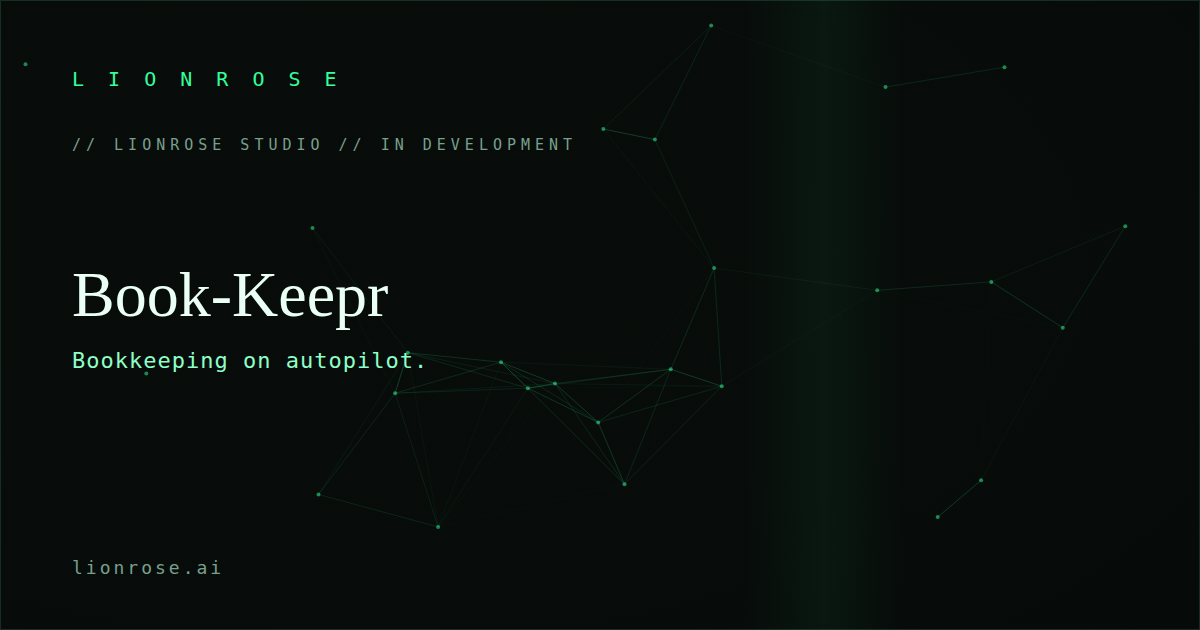
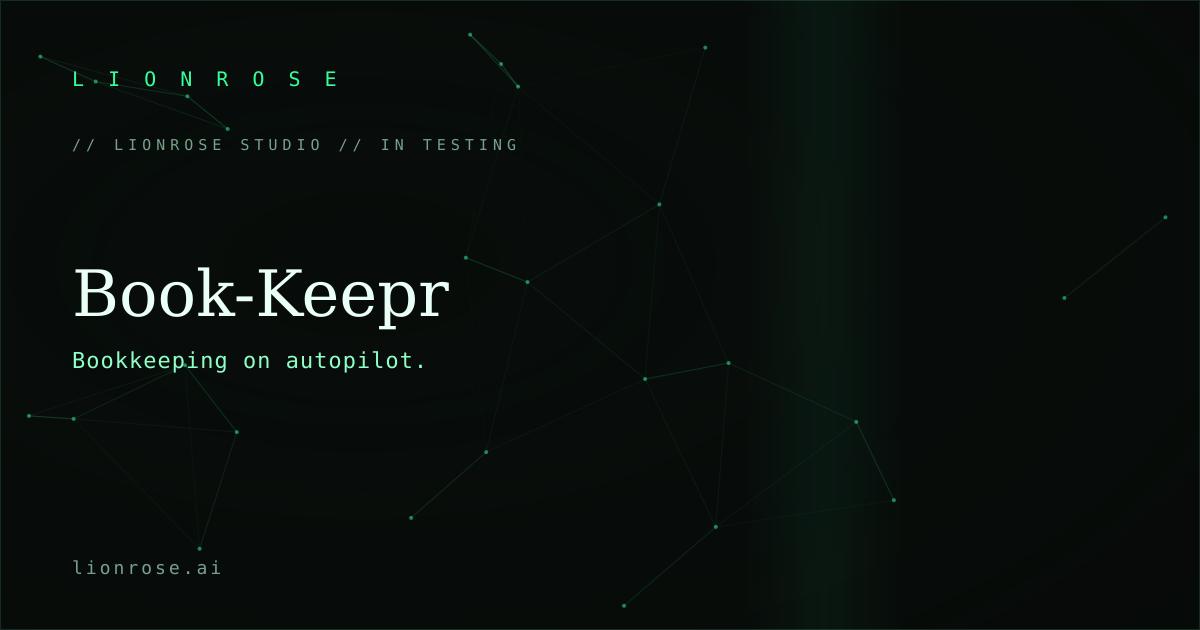
Predictor: generic prediction-engine copy; Book-Keepr: In Testing
Claude-Session: https://claude.ai/code/session_0111HABg2rW1iKnQVqs1y8Ya

diff --git a/p-predictor.html b/p-predictor.html
@@ -4,17 +4,17 @@
 <meta charset="UTF-8" />
 <meta name="viewport" content="width=device-width, initial-scale=1.0" />
 <title>Predictor | LionRose</title>
-<meta name="description" content="Predictor is a decision engine for sports prediction markets. It checks live prices against model odds, counts every fee, and sizes positions to survive losing streaks. In development at LionRose." />
+<meta name="description" content="Predictor is a prediction engine that weighs live prices against independent probability models and every cost, so each decision rests on a proven edge. In development at LionRose." />
 <link rel="canonical" href="https://lionrose.ai/p-predictor.html" />
 <meta property="og:type" content="website" />
 <meta property="og:site_name" content="LionRose" />
 <meta property="og:title" content="Predictor | LionRose" />
-<meta property="og:description" content="Predictor is a decision engine for sports prediction markets. It checks live prices against model odds, counts every fee, and sizes positions to survive losing streaks. In development at LionRose." />
+<meta property="og:description" content="Predictor is a prediction engine that weighs live prices against independent probability models and every cost, so each decision rests on a proven edge. In development at LionRose." />
 <meta property="og:url" content="https://lionrose.ai/p-predictor.html" />
 <meta property="og:image" content="https://lionrose.ai/products/og-predictor.png" />
 <meta name="twitter:card" content="summary_large_image" />
 <meta name="twitter:title" content="Predictor | LionRose" />
-<meta name="twitter:description" content="Predictor is a decision engine for sports prediction markets. It checks live prices against model odds, counts every fee, and sizes positions to survive losing streaks. In development at LionRose." />
+<meta name="twitter:description" content="Predictor is a prediction engine that weighs live prices against independent probability models and every cost, so each decision rests on a proven edge. In development at LionRose." />
 <meta name="twitter:image" content="https://lionrose.ai/products/og-predictor.png" />
 <link href="https://fonts.googleapis.com/css2?family=Cinzel:wght@600;900&family=JetBrains+Mono:wght@400;500;700&family=Lato:wght@300;400;700&display=swap" rel="stylesheet" />
 <link rel="stylesheet" href="lionrose-green.css" />
@@ -39,13 +39,13 @@
 </nav>
 
 <section class="hero med" id="hero">
-  <canvas data-words="PREDICTOR,ODDS,EDGE,LIVE PRICES,LEDGER"></canvas>
+  <canvas data-words="PREDICTOR,PROBABILITY,EDGE,LIVE PRICES,LEDGER"></canvas>
   <div class="hero-vig"></div>
   <div class="hero-copy">
     <a class="back" href="index.html#building">&#8592; LionRose</a>
     <span class="eyebrow" style="margin-top:1.2rem;"><i></i>LionRose Studio</span>
-    <h1>Price the odds before you play them.</h1>
-    <p class="sub">Live market prices checked against model odds, with every fee counted.</p>
+    <h1>Know the odds before you commit.</h1>
+    <p class="sub">Live prices weighed against independent probability models, with every cost counted.</p>
     <div class="hero-btns">
       <a class="btn btn-p" href="mailto:info@lionrose.ai?subject=Predictor">Start a Conversation</a>
       <a class="btn btn-g" href="index.html#building">All Products</a>
@@ -61,8 +61,8 @@
       <div class="pinfo">
         <span class="k"><i></i>Predictor &middot; In Development</span>
         <h2 class="title">Edge you can <span class='g'>prove</span>.</h2>
-        <p class="lede">Predictor compares live prediction-market prices with independent win-probability models, then works out whether a contract is worth buying once fees are counted. On heavy favorites, small fees decide the trade, so they are measured, not guessed.</p>
-        <p class="lede" style="margin-top:1rem;">Every position is sized to survive a losing streak, and every trade lands in a ledger that shows whether the edge is real.</p>
+        <p class="lede">Predictor compares live prices with independent probability models, then works out whether a call is worth making once every cost is counted. Small costs decide close calls, so they are measured, not guessed.</p>
+        <p class="lede" style="margin-top:1rem;">Every decision is sized to survive a losing streak, and every outcome lands in a ledger that shows whether the edge is real.</p>
       </div>
     </div>
   </div>
@@ -72,10 +72,10 @@
 <section id="does">
   <div class="wrap reveal">
     <div class="cards">
-      <div class="card"><h3 class="dc">Live scanner</h3><p>In-game prices checked against win-probability models.</p></div>
-      <div class="card"><h3 class="dc">Fee-aware math</h3><p>Break-even odds after every fee, per platform.</p></div>
-      <div class="card"><h3 class="dc">Disciplined sizing</h3><p>Position caps built to survive losing streaks.</p></div>
-      <div class="card"><h3 class="dc">Proof ledger</h3><p>Every trade logged to show whether the edge holds.</p></div>
+      <div class="card"><h3 class="dc">Live scanner</h3><p>Prices checked against probability models in real time.</p></div>
+      <div class="card"><h3 class="dc">Cost-aware math</h3><p>Break-even odds after every fee.</p></div>
+      <div class="card"><h3 class="dc">Disciplined sizing</h3><p>Limits built to survive losing streaks.</p></div>
+      <div class="card"><h3 class="dc">Proof ledger</h3><p>Every call logged to show whether the edge holds.</p></div>
     </div>
   </div>
 </section>

diff --git a/p-book-keepr.html b/p-book-keepr.html
@@ -4,17 +4,17 @@
 <meta charset="UTF-8" />
 <meta name="viewport" content="width=device-width, initial-scale=1.0" />
 <title>Book-Keepr | LionRose</title>
-<meta name="description" content="Book-Keepr puts bookkeeping on autopilot. AI categorizes and reconciles every transaction to source records, so your books stay clean and close-ready. In development at LionRose." />
+<meta name="description" content="Book-Keepr puts bookkeeping on autopilot. AI categorizes and reconciles every transaction to source records, so your books stay clean and close-ready. In testing at LionRose." />
 <link rel="canonical" href="https://lionrose.ai/p-book-keepr.html" />
 <meta property="og:type" content="website" />
 <meta property="og:site_name" content="LionRose" />
 <meta property="og:title" content="Book-Keepr | LionRose" />
-<meta property="og:description" content="Book-Keepr puts bookkeeping on autopilot. AI categorizes and reconciles every transaction to source records, so your books stay clean and close-ready. In development at LionRose." />
+<meta property="og:description" content="Book-Keepr puts bookkeeping on autopilot. AI categorizes and reconciles every transaction to source records, so your books stay clean and close-ready. In testing at LionRose." />
 <meta property="og:url" content="https://lionrose.ai/p-book-keepr.html" />
 <meta property="og:image" content="https://lionrose.ai/products/og-book-keepr.png" />
 <meta name="twitter:card" content="summary_large_image" />
 <meta name="twitter:title" content="Book-Keepr | LionRose" />
-<meta name="twitter:description" content="Book-Keepr puts bookkeeping on autopilot. AI categorizes and reconciles every transaction to source records, so your books stay clean and close-ready. In development at LionRose." />
+<meta name="twitter:description" content="Book-Keepr puts bookkeeping on autopilot. AI categorizes and reconciles every transaction to source records, so your books stay clean and close-ready. In testing at LionRose." />
 <meta name="twitter:image" content="https://lionrose.ai/products/og-book-keepr.png" />
 <link href="https://fonts.googleapis.com/css2?family=Cinzel:wght@600;900&family=JetBrains+Mono:wght@400;500;700&family=Lato:wght@300;400;700&display=swap" rel="stylesheet" />
 <link rel="stylesheet" href="lionrose-green.css" />
@@ -59,7 +59,7 @@
     <div class="pdetail">
       <div class="pshot"><img src="products/book-keepr.svg" alt="Book-Keepr preview" /></div>
       <div class="pinfo">
-        <span class="k"><i></i>Book-Keepr &middot; In Development</span>
+        <span class="k"><i></i>Book-Keepr &middot; In Testing</span>
         <h2 class="title">Clean books, <span class='g'>closed on time</span>.</h2>
         <p class="lede">Book-Keepr reads every transaction, categorizes it, and reconciles it against your records without the manual grind. It matches deposits and payments to source documents down to the penny.</p>
         <p class="lede" style="margin-top:1rem;">The result is a set of books that stay current and audit-ready, so closing the month stops being an event.</p>
@@ -80,18 +80,18 @@
   </div>
 </section>
 
-<div class="divider"><span class="ln"></span><span class="tag">// Early Access</span><span class="ln r"></span></div>
+<div class="divider"><span class="ln"></span><span class="tag">// In Testing</span><span class="ln r"></span></div>
 <section id="cta">
   <div class="wrap reveal">
-    <span class="k"><i></i>Early Access</span>
+    <span class="k"><i></i>In Testing</span>
     <h2 class="title">Books that <span class='g'>keep themselves</span>.</h2>
-    <p class="lede">Book-Keepr is in active development. Tell us about your books and we will bring you in as we open it up.</p>
+    <p class="lede">Book-Keepr is in testing now. Tell us about your books and we will bring you in as we open it up.</p>
     <div style="margin-top:2rem;"><a class="btn btn-p" href="mailto:info@lionrose.ai?subject=Book-Keepr">Get Early Access</a></div>
   </div>
 </section>
 
 <footer>
-  <div class="status"><span>SYSTEM: LIONROSE // STUDIO</span><span>//</span><span>PRODUCT: Book-Keepr</span><span>//</span><span>STATUS: <span class="on">In Development</span></span></div>
+  <div class="status"><span>SYSTEM: LIONROSE // STUDIO</span><span>//</span><span>PRODUCT: Book-Keepr</span><span>//</span><span>STATUS: <span class="on">In Testing</span></span></div>
   <div class="fnav"><a href="index.html">Home</a><a href="index.html#building">Products</a><a href="web.html">Web Development</a><a href="hr.html">Human Resources</a><a href="media.html">Media</a><a href="production.html">Production</a></div>
   <div class="fname">LionRose Entertainment Inc.</div>
 </footer>

diff --git a/index.html b/index.html
@@ -130,7 +130,7 @@
       <a class="card pcard" href="p-book-keepr.html">
         <div class="thumb"><img src="products/book-keepr.svg" alt="Book-Keepr preview" loading="lazy" /></div>
         <div class="body">
-          <div class="top"><h3 class="dc">Book-Keepr</h3><span class="st">In Development</span></div>
+          <div class="top"><h3 class="dc">Book-Keepr</h3><span class="st beta">In Testing</span></div>
           <div class="tg">Bookkeeping on autopilot.</div>
           <p>AI categorizes and reconciles every transaction, so your books stay clean and closed.</p>
           <span class="golink">View project &#8599;</span>
@@ -185,8 +185,8 @@
         <div class="thumb"><img src="products/predictor.svg" alt="Predictor preview" loading="lazy" /></div>
         <div class="body">
           <div class="top"><h3 class="dc">Predictor</h3><span class="st">In Development</span></div>
-          <div class="tg">Price the odds before you play them.</div>
-          <p>A decision engine for sports prediction markets. It checks live prices against model odds, counts every fee, and sizes each position to survive losing streaks.</p>
+          <div class="tg">Know the odds before you commit.</div>
+          <p>A prediction engine that weighs live prices against independent probability models, counts every cost, and shows where a real edge exists.</p>
           <span class="golink">View project &#8599;</span>
         </div>
       </a>
